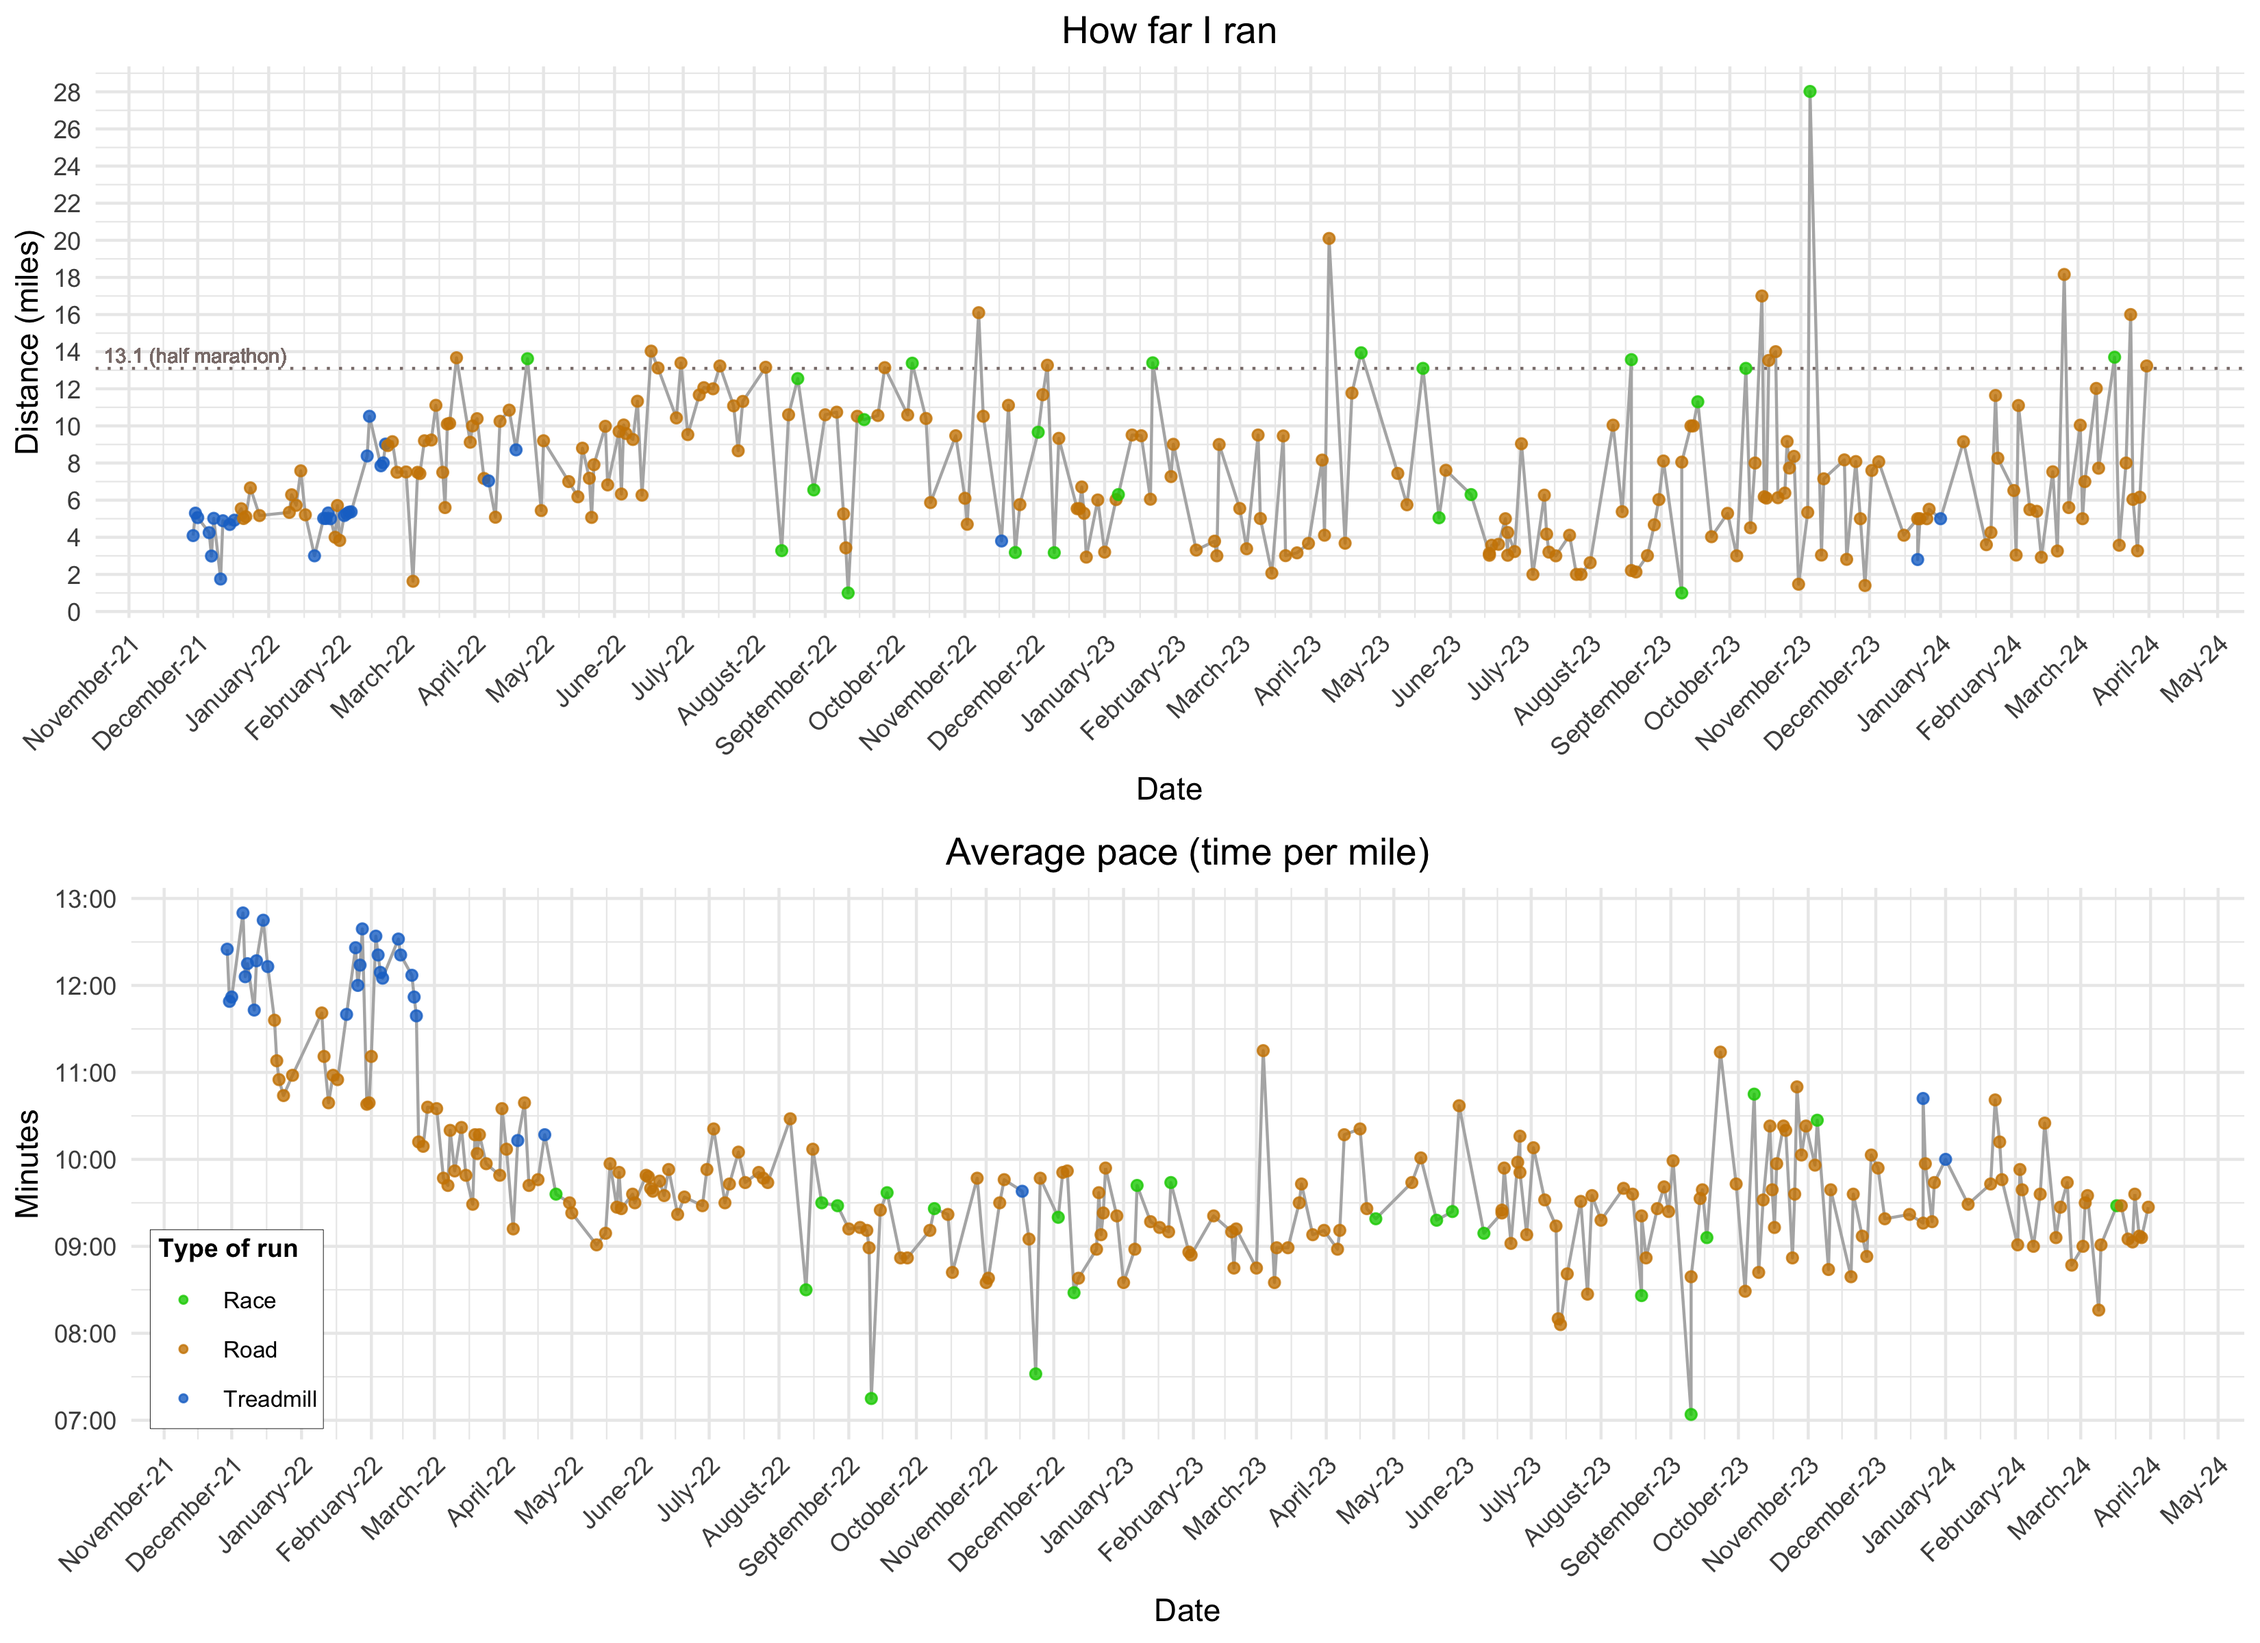
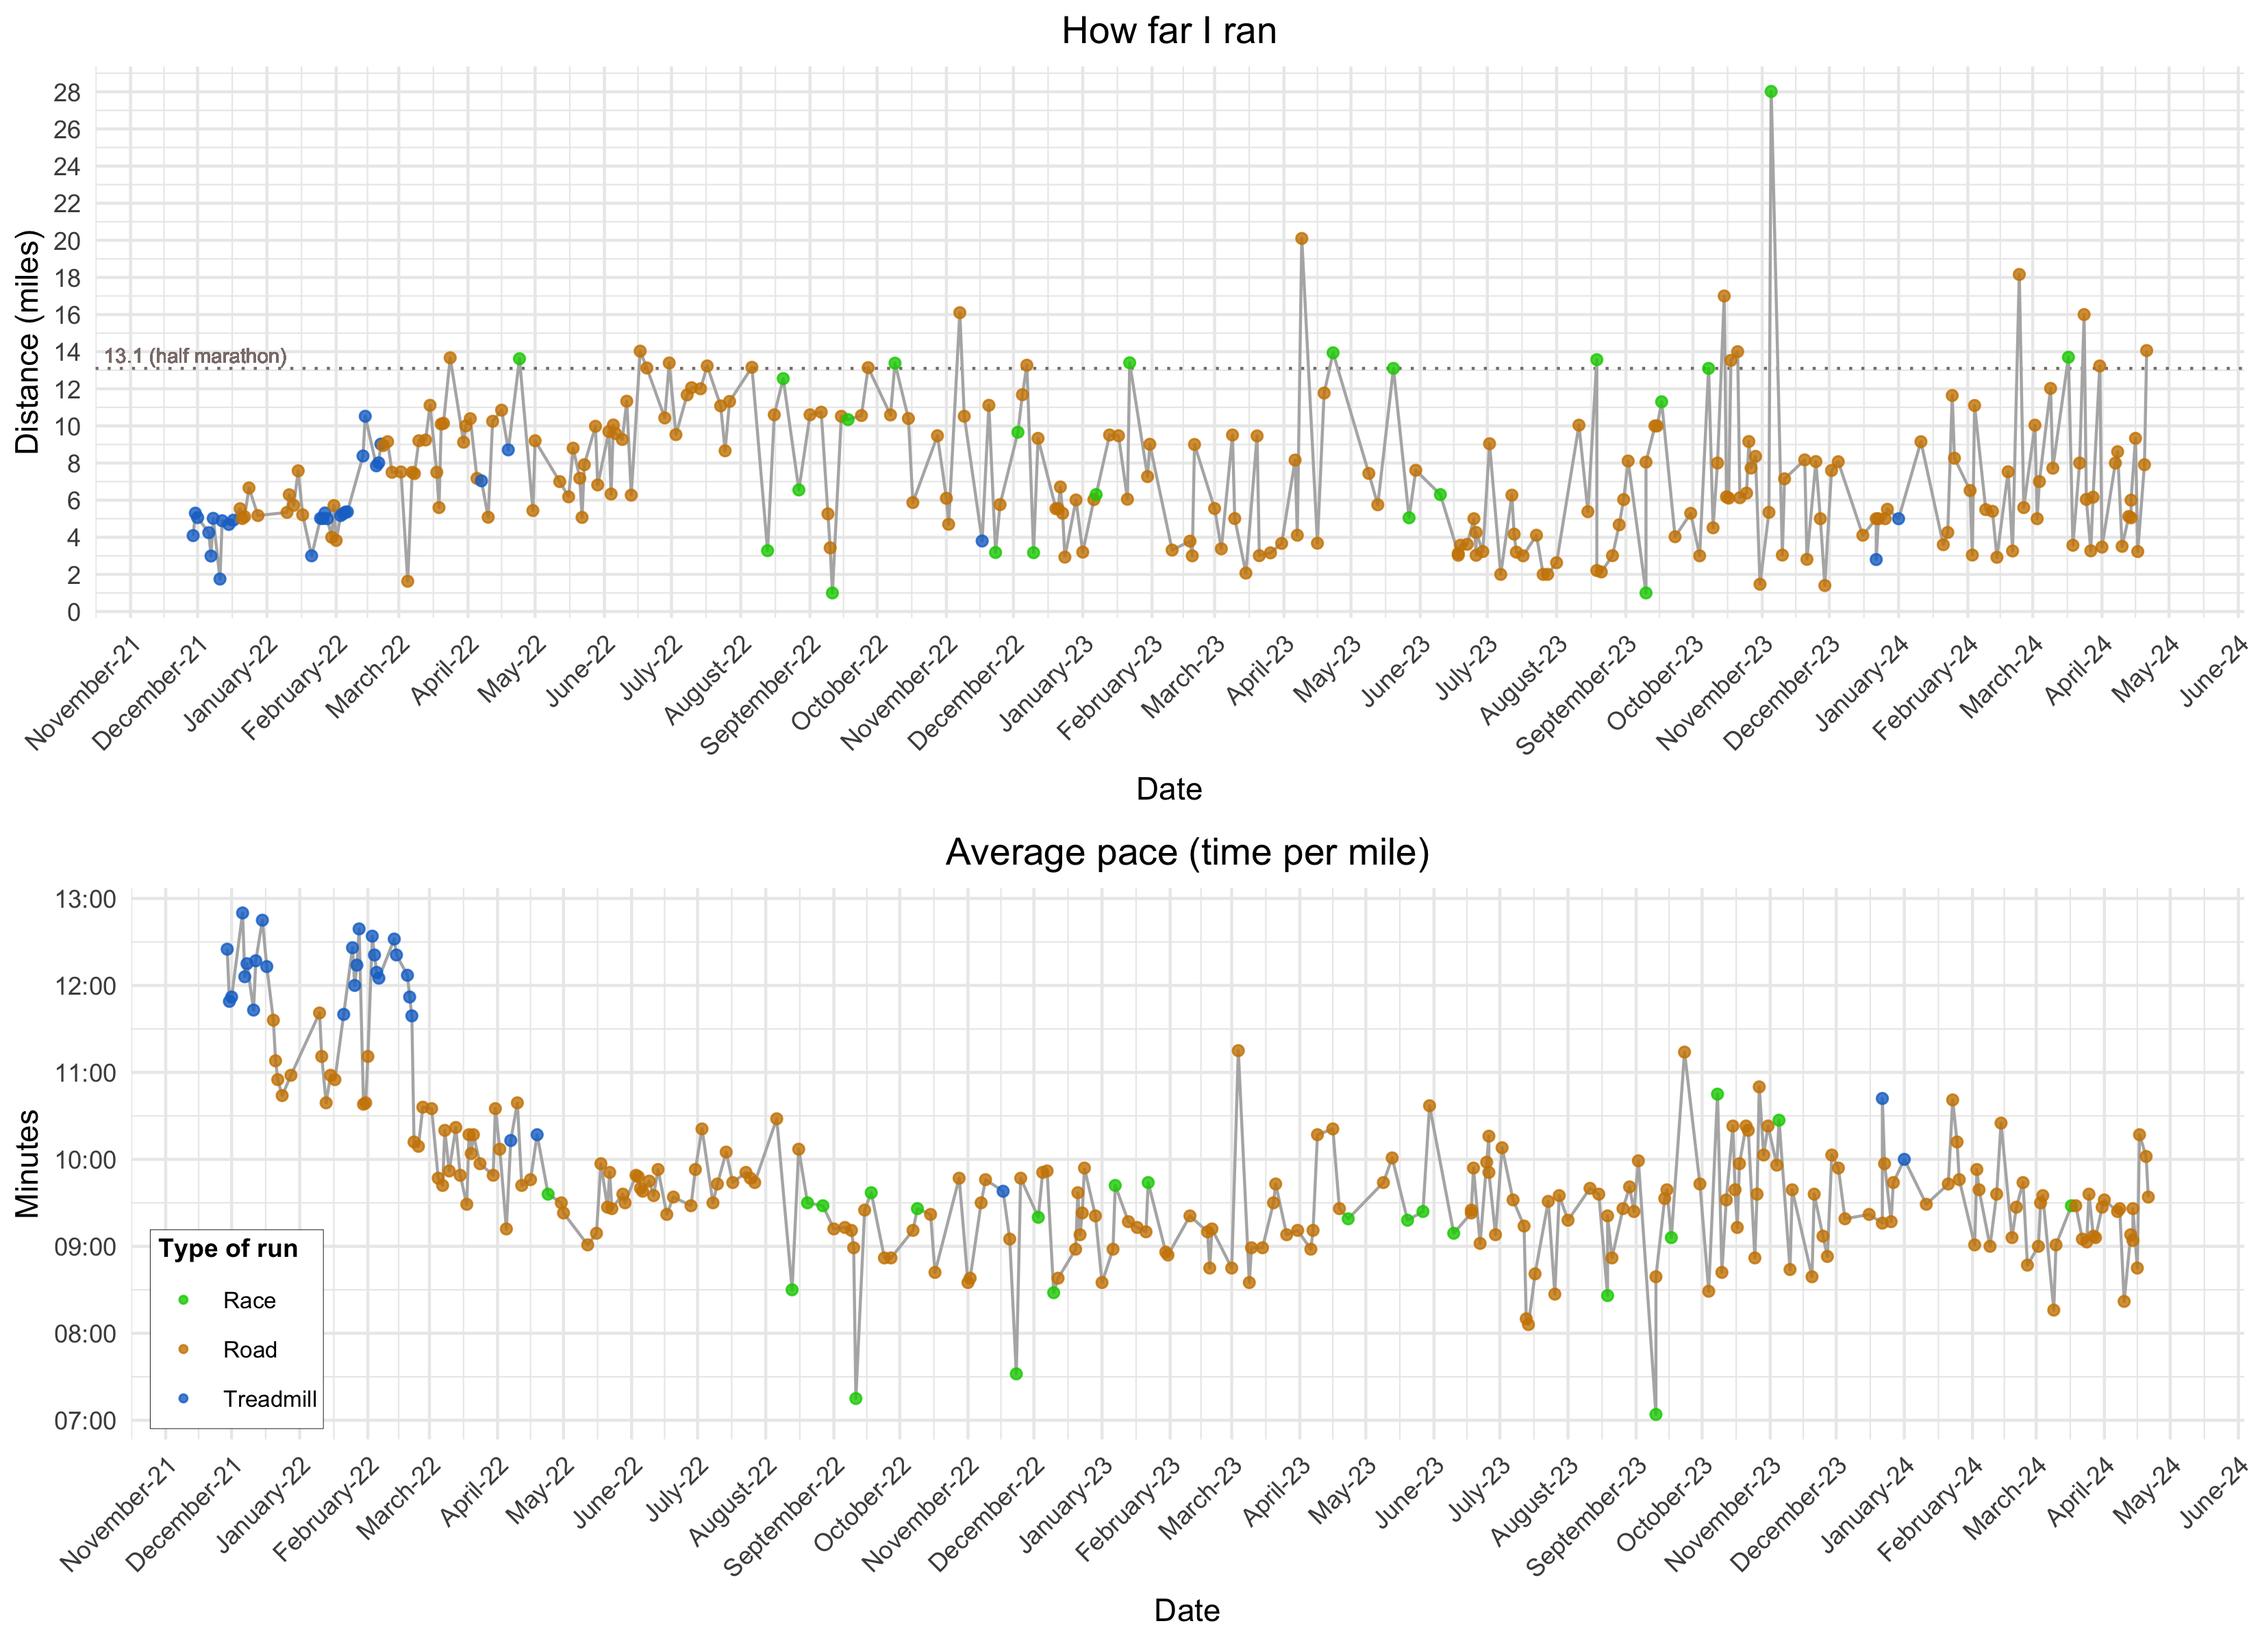
4/1/24 - 4/21/24

diff --git a/README.md b/README.md
@@ -26,7 +26,7 @@ Total miles since 11/29/21:
 sum(runningData$Miles)
 ```
 
-    ## [1] 1882.06
+    ## [1] 1956.35
 
 Average distance over last ten runs:
 
@@ -34,4 +34,4 @@ Average distance over last ten runs:
 mean(tail(runningData$Miles, 10))
 ```
 
-    ## [1] 8.971
+    ## [1] 7.082
